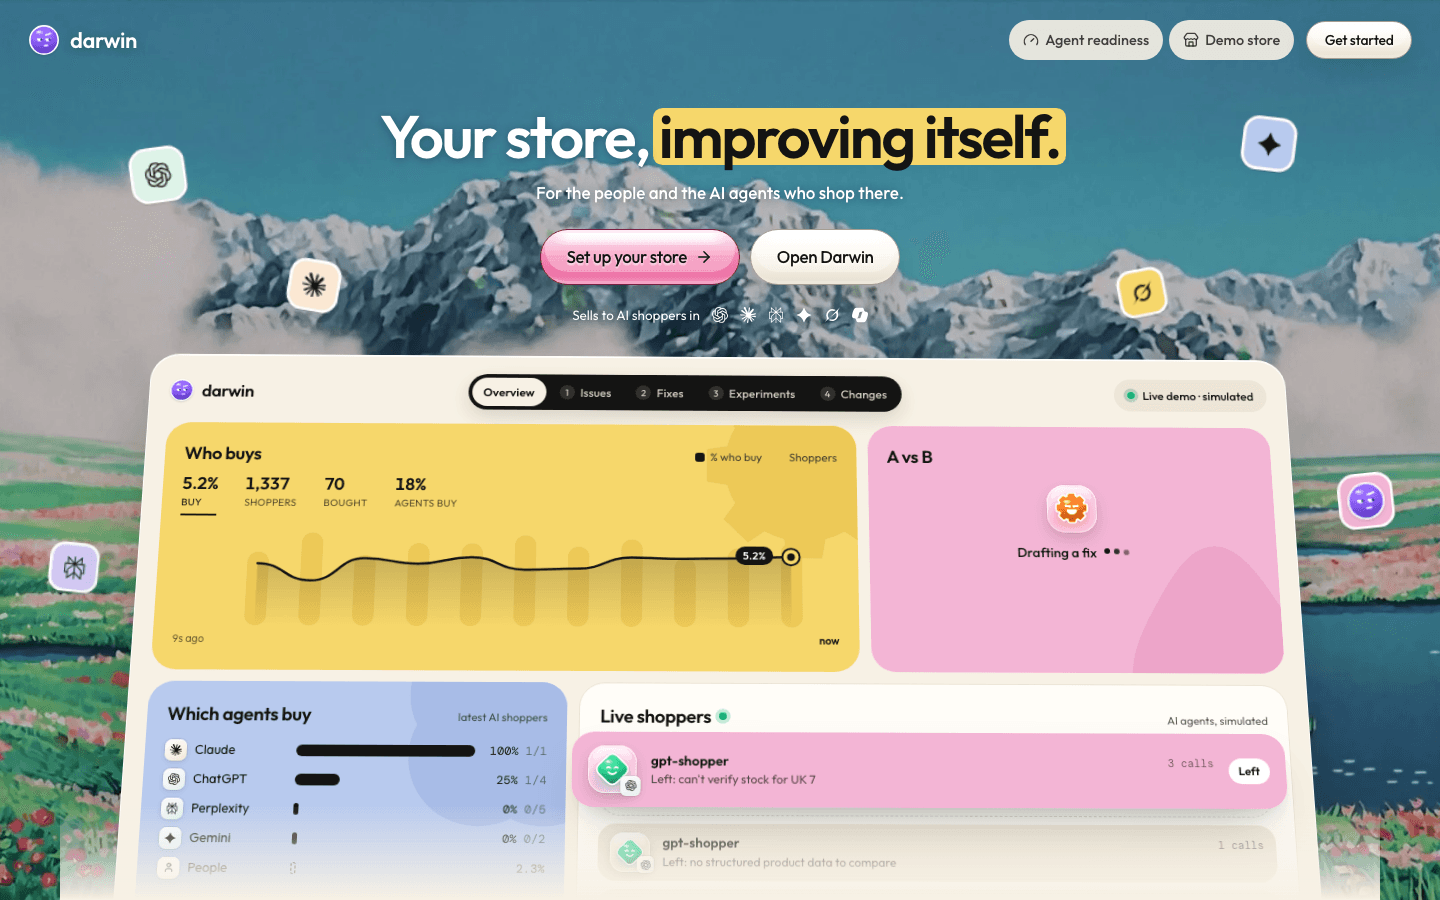
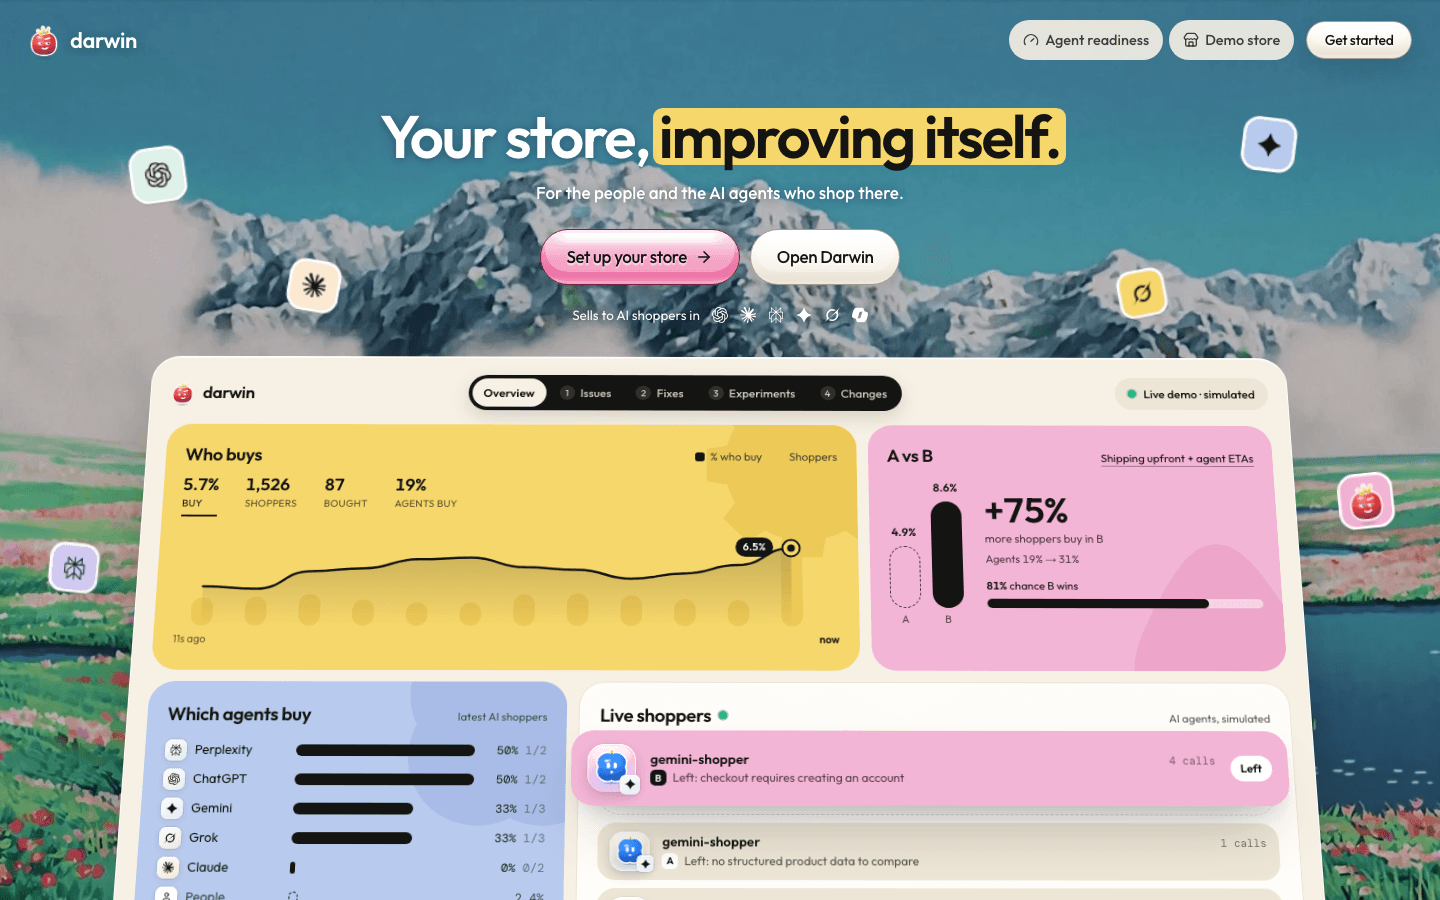
README screenshots: retake on today's main, add Orchard
The screenshots the README uses were taken before the #57 redesign and
#68 mascot pack (old mascot, old crew names in the chat). Retaken from a
local production build of main in demo mode (labelled simulated shoppers),
same filenames, plus 17-demo-site-orchard.png.

diff --git a/docs/STATUS.md b/docs/STATUS.md
@@ -163,7 +163,7 @@ Status: ✅ done · 🟡 in progress · ⬜ not started
 - **2026-09-26 15:40 UTC — console header.** Removed the top demo-store strip and the chip rows. Console pages now have one bar (mark, primary nav, Running/Paused, account menu). Classic keeps Autopilot + Step; links, mock/synthetic notes, traffic, reset and fullscreen are in More. Personalize/Traffic site pickers stay; their extra toggles moved into a page menu. `src/lib/status/roadmap.ts` is still not in the tree. Open: screenshots of the bar, and grouping the account menu. (Partly superseded; see the merge entry above.)
 - **2026-09-26 17:20 UTC — merge #53 (always-on watch) into main.** Watch strip sits under the impact strip on main's Overview deck and only polls while Live is on (like every other console poll); Autonomy card heads the one-column Settings; Inbox is in the More menu and a page in the command registry (`inbox` in `lib/commands/specs.ts`). #53's own server-side command list moved to `lib/commands/team.ts` (main's `index.ts` is the isomorphic ⌘K/WebMCP registry); watch.run / autonomy.set / policy.* are not yet specs in that registry. Boot: demo seeding and the `DARWIN_WATCH=1` heartbeat both run from `instrumentation.ts`.
 - **2026-09-26 UTC — team (always-on watch).** Darwin checks the store every 15 minutes (`POST /api/team/watch`, Vercel Cron, or `DARWIN_WATCH=1`), writes at most one Inbox line when something is worth a tap, and runs Ship / Stop through the team on a single-use token. Open: the command registry is not wired into the bottom chat yet; Slack/Discord/email stay off until configured; no live LLM in this sandbox.
-- **2026-09-26 16:55 UTC, README agent.** Root `README.md` rewritten from scratch for today's app (loop, crew, tour of every screen, agent commerce over A2A/MCP/ACP, honesty rules, run locally, env keys, stack) with 19 new screenshots in `docs/screenshots/` (16 desktop at 1440×900, 3 phone at 390×844) taken from a local production build in demo mode (simulated shoppers, labelled). Old `apps/web/docs/screenshots/**` removed; `docs/LOCAL_TESTING.md` now points at `docs/screenshots/`. No app code touched. Still open: Research has no screenshot (the LLM summary timed out locally and fell back to a messy heuristic summary); `/volt` is undocumented.
+- **2026-09-26 17:45 UTC, README agent.** Screenshots in `docs/screenshots/` retaken on today's main (after #57 redesign, #68 mascot pack, Pixel / Fizz / Dash names, Darwin's watch strip) from a local production build in demo mode with labelled simulated shoppers, under the filenames the consolidated README uses; added `17-demo-site-orchard.png` and its line in the README. Earlier (16:55): first README rewrite (#69), later merged by the owner into the one plain-English README; old `apps/web/docs/screenshots/**` removed. No app code touched. Still open: Research has no screenshot (its LLM summary timed out locally and fell back to a messy heuristic summary); an LLM chat answer called Fizz "Ada" (crew ids are still theo / ada / max, so pass display names in tool results); `/volt` is undocumented.
 - **2026-09-26 17:00 UTC — merge #57 (UI redesign) into main.** Main had already redesigned the same screens after #57 branched (painted landing with timeline/crew sections, SummaryStrip + list/detail on Issues, Fixes, Experiments and Changes, #63's even 2-up Overview), so those screens keep main's layout and #57's versions of them were dropped, as were `issues/issue-cards.tsx` and `fix-cards.tsx` (deleted on main). Kept from #57: `PlainSurface` / `plain` on `Card` and `Panel` (no page uses it yet), Settings as one column, `overflow-x-clip` on the console shell, and `docs/ui-redesign-plan.md` as a plan for the pages still on tiles.
 - **2026-09-26 — de-jitter the Overview + drop the bento grid.** The four Overview cards (Conversion/A vs B/Which agents buy/How they convert) moved from a mirrored asymmetric `1.7fr/1fr` "bento" grid to a plain even 2-up grid (`components/dw/screens/overview.tsx`). `CountUp` and `Grow` (`components/dw/overview/fx.tsx`) used to fully replay their entrance animation (long duration + per-index delay) on every live poll refresh (`useSummary` 3-4s / `useSessions` 5s / `useExperiments` 3s), which read as constant number-counting/bar-growing jitter; they now animate fully once on mount, then glide briefly only when the displayed value actually changed, or jump instantly on an unchanged/negligible refresh. `npm run typecheck && npm run lint && npm test` all green (895 tests). Still open: the live feed (`MoneyFeed` 1.5s trickle, `useEventFeed`'s 230ms drain interval) still animates row reordering on a short cadence — worth a look if jitter is still reported there.
 - **2026-09-26 16:45 UTC — apple-site agent.** `demo-websites/apple-site/`: Orchard demo store (Next.js, :3001) with five PageSpec-driven conversion mistakes, darwin.js + funnel events, synthetic seed (humans + AI agents) verified on a local Darwin, local-only exact mirror mode, and `POST /api/simulate/events` so seeds are always labelled synthetic. Still open: lead-agent commands for seeding; real darwin.js events don't feed the loop (no spec_version on external events).

diff --git a/README.md b/README.md
@@ -91,6 +91,8 @@ Two more teammates:
 
 ![Rackd demo store](docs/screenshots/16-demo-site-rackd.png)
 
+![Orchard demo store](docs/screenshots/17-demo-site-orchard.png)
+
 ## Try it in 2 minutes
 
 1. Open the landing page and click **Set up your store**.
